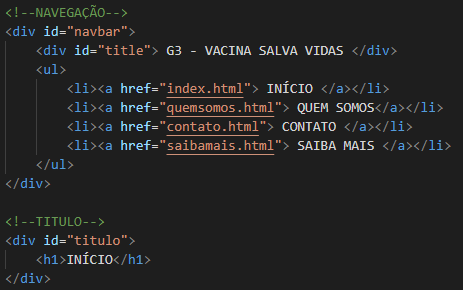
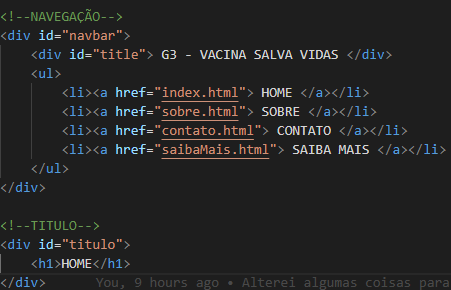
Arrumei de acordo com GAMA

diff --git a/README.md b/README.md
@@ -30,18 +30,14 @@ Nesta página <b>HOME</b>, contém 5 divisões: Imagens principais, Início de n
 Nesta página <b>SOBRE</b>, contém 2 divisões: Quadros 1 e 2 de colaboradores do grupo 03.
 
 <b>Quadros 1 e 2 de colaboradores do grupo 03</b><br />
-<img src="imagensREADME/div-quemSomos.png"/>
+<img src="imagensREADME/div-sobre.png"/>
 
 Nesta página <b>CONTATO</b>, contém 1 divisão pai que tem formulário e texto geral de forma interna.
 
 <b>Formulário</b> e <b>Texto Geral</b><br />
 <img src="imagensREADME/div-contato.png"/>
 
-<<<<<<< Updated upstream
 Nesta página <b>Saiba Mais</b>, contém 1 divisão pai e vários divisões filhos.
-=======
-Nesta página SAIBA MAIS, contém 1 divisão pai e vários divisões filhos.
->>>>>>> Stashed changes
 
 <b>Quadro 1 de fontes internas</b><br />
 <img src="imagensREADME/div-saibaMais.png"/>
